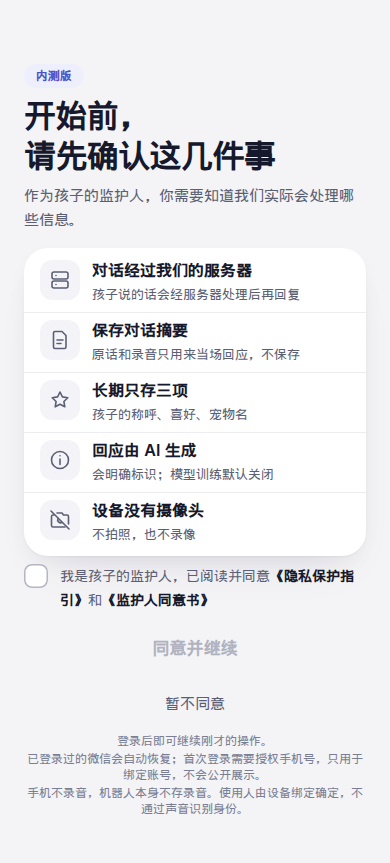
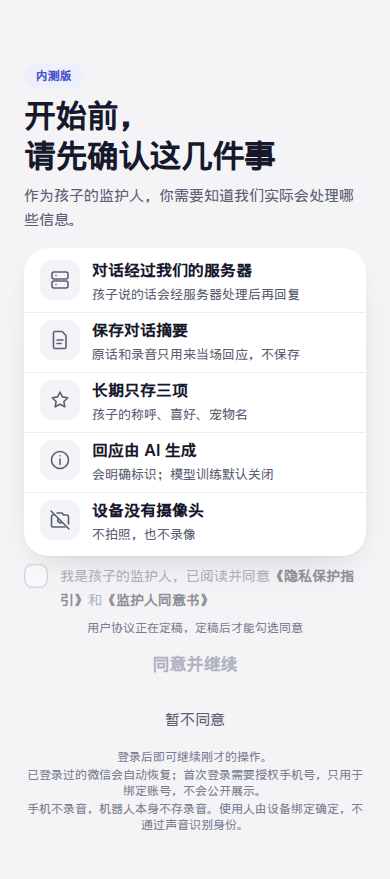
docs(design): reshoot consent while the agreement is pending and when it is ready
The locked page is the one compared with the five-card design. The ready shot shows the tick after the marker is gone.

diff --git a/docs/design/app-v4/TEST-REPORT.md b/docs/design/app-v4/TEST-REPORT.md
@@ -122,7 +122,7 @@ The guest home is the full-bleed login screen with no tab bar. The greeting foll
 
 ![02-consent, live page left, design right](mp-screenshots/side-by-side/02-consent.png)
 
-The consent screen leads the auth page. Five fact cards, the guardian tick, 「同意并继续」, 「暂不同意」 and the two notes under it sit inside the 390×844 frame. The last note ends at 817 CSS px. The name and avatar step comes after phone authorization, and only on a first registration. Horizontal overflow and content under the capsule are both 0. This reshoot compares the live page with the updated five-card design. diffRatio is 0.207.
+The consent screen leads the auth page. Five fact cards, the guardian tick, 「同意并继续」, 「暂不同意」 and the two notes under it sit inside the 390×844 frame. While `<!-- agreement: pending -->` is still in the user agreement, the tick stays locked and the line under it reads 「用户协议正在定稿，定稿后才能勾选同意」. In that state the last note ends at 833 CSS px. Removing the marker and filling the agreement body hides the line and lets the tick work. The name and avatar step comes after phone authorization, and only on a first registration. Horizontal overflow and content under the capsule are both 0. This reshoot compares the locked live page with the five-card design. diffRatio is 0.213.
 
 The five cards now use the same sentences as the design.
 
@@ -131,7 +131,7 @@ The five cards now use the same sentences as the design.
 - Fact 4 stays 「回应由 AI 生成」, with the sub 「会明确标识；模型训练默认关闭」.
 - Fact 5 title is 「设备没有摄像头」, and the subtitle is 「不拍照，也不录像」. The icon is `cam`.
 
-The checkbox reads 「我是孩子的监护人，已阅读并同意《隐私保护指引》和《监护人同意书》」. Each title is its own link, so a tap opens that document instead of only toggling the box. 《隐私保护指引》 calls `wx.openPrivacyContract`. 《监护人同意书》 opens `pages/guardian-consent/index`. The page chip is 「内测版」. The effective date stays blank until 融资合规部 sets it. Parent-visible copy does not say 「草稿」. Notes on login and recording still follow 「暂不同意」.
+The checkbox reads 「我是孩子的监护人，已阅读并同意《隐私保护指引》和《监护人同意书》」. While the agreement marker is present, the row is locked and a tap does not tick it. After the body replaces the marker, a tap ticks it. Each title is its own link, so a tap opens that document. 《隐私保护指引》 calls `wx.openPrivacyContract`. 《监护人同意书》 opens `pages/guardian-consent/index`. The page chip is 「内测版」. The effective date stays blank until 融资合规部 sets it. Parent-visible copy does not say 「草稿」. Notes on login and recording still follow 「暂不同意」.
 
 ### 03-home
 
